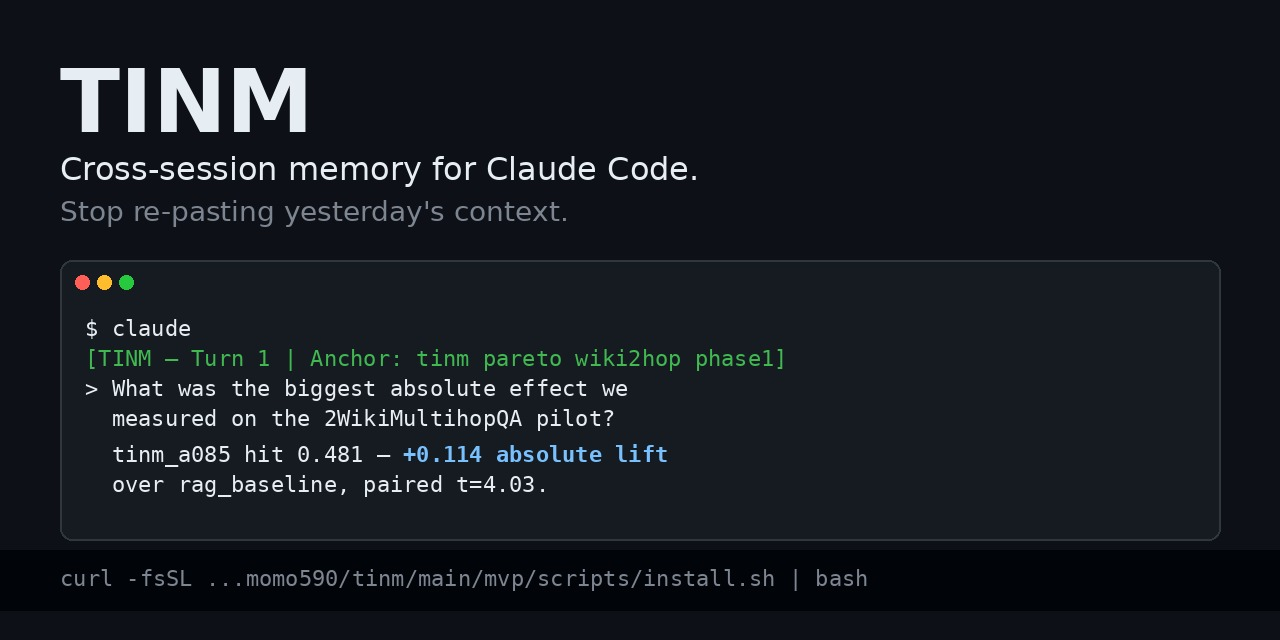
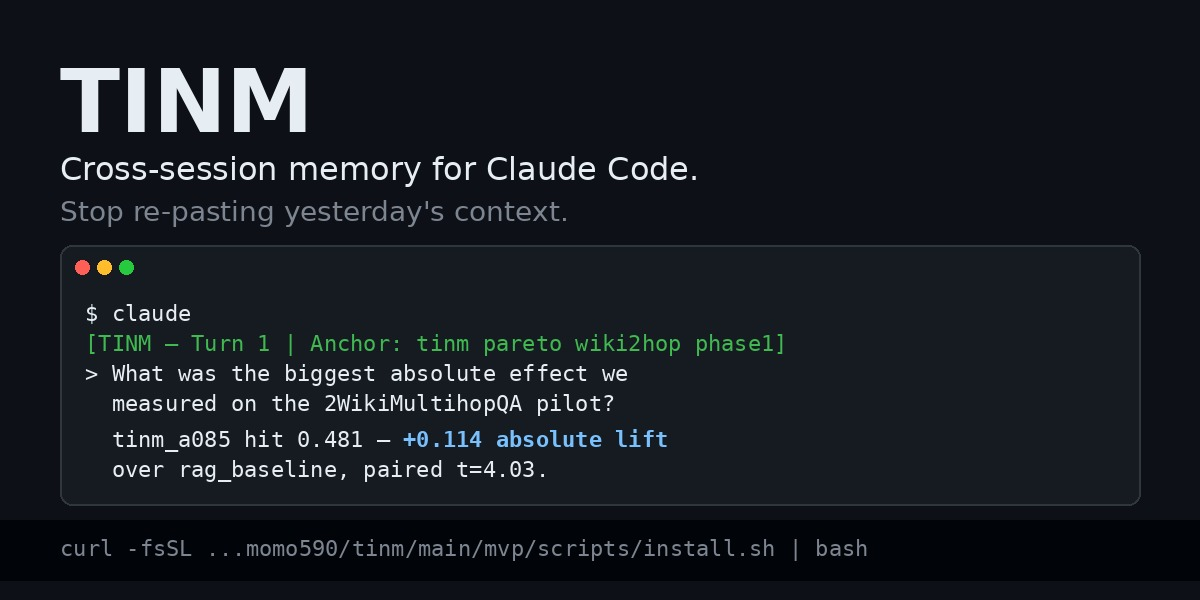
fix(assets): rebuild social preview at 1200×600 (GitHub's own size)
GitHub's docs say 1280×640 but their own auto-generated OG images at
opengraph.githubassets.com/<hash>/<repo> render at 1200×600. Switch
to 1200×600 since that's the size the social-preview upload pipeline
clearly accepts (it's the same pipeline that emits the auto-OG).

Layout adjusted to fit the 40px height reduction: terminal panel
moves up 15px, curl footer moves up 30px. Aspect ratio unchanged
(2:1) so all proportions are preserved.

Both PNG (52KB) and JPG (82KB) variants written, both vanilla
encodings (no PIL optimize).

Changed region(s): [[0.0308, 0.09, 0.9558, 0.84], [0.0617, 0.84, 0.925, 0.93], [0.0308, 0.9, 0.1542, 0.93]]

diff --git a/docs/assets/build_social_preview.py b/docs/assets/build_social_preview.py
@@ -12,8 +12,14 @@ from __future__ import annotations
 from pathlib import Path
 from PIL import Image, ImageDraw, ImageFont
 
-# GitHub social preview canonical size.
-W, H = 1280, 640
+# GitHub social preview size. Two values are observed:
+#   1280×640 — what github.com docs say to use (sometimes rejected by
+#              the upload pipeline with "Something went really wrong")
+#   1200× 600 — what GitHub *itself* generates for repos without a
+#               custom social preview (via opengraph.githubassets.com)
+# We render at 1200×600 because that's the size GitHub's own pipeline
+# emits, and so the most certain to round-trip through the upload step.
+W, H = 1200, 600
 
 # GitHub-dark palette so the card reads naturally in both DM dark mode
 # and X dark mode (most power-users browse in dark).
@@ -56,8 +62,8 @@ def main() -> None:
     )
 
     # ── Terminal panel: the whoa moment, verbatim ────────────────────
-    term_x, term_y = 60, 260
-    term_w, term_h = W - 120, 280
+    term_x, term_y = 60, 245
+    term_w, term_h = W - 120, 260
     d.rounded_rectangle(
         [term_x, term_y, term_x + term_w, term_y + term_h],
         radius=12,
@@ -113,7 +119,7 @@ def main() -> None:
 
     # ── Footer: install one-liner + N=1 evidence callout ─────────────
     # Curl bar (subtle background strip)
-    curl_y = 565
+    curl_y = 535
     d.rectangle([0, curl_y - 15, W, curl_y + 45], fill="#010409")
     d.text(
         (60, curl_y),
